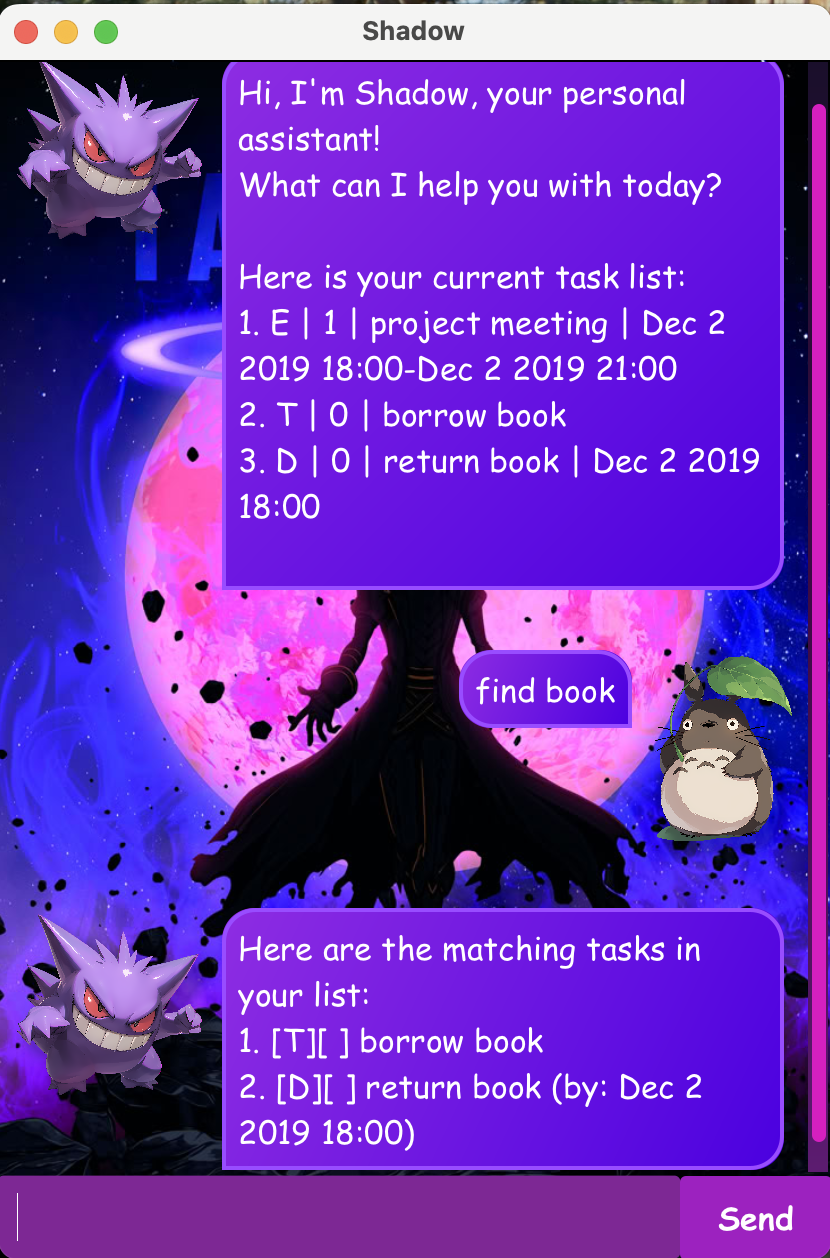
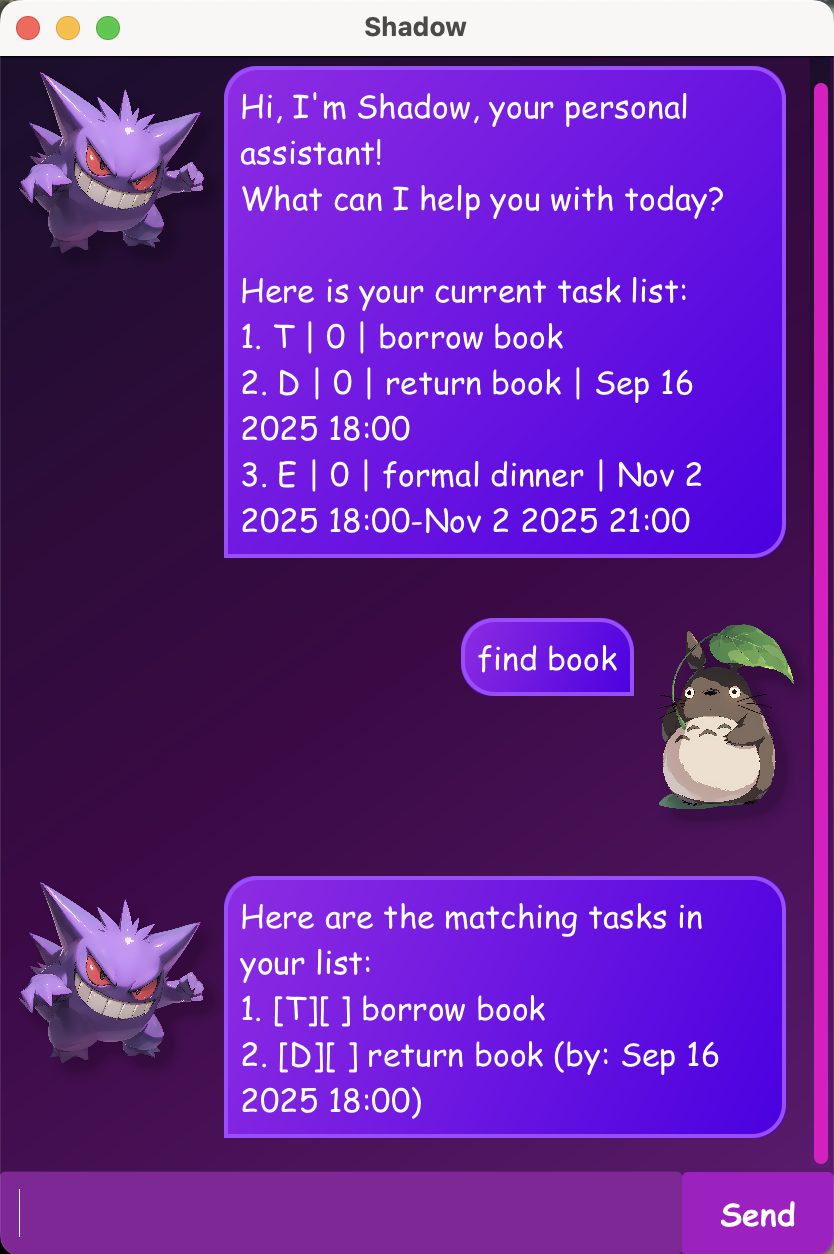
Remove background image for cross platform support

diff --git a/src/main/resources/css/main.css b/src/main/resources/css/main.css
@@ -1,7 +1,6 @@
 .root {
     main-color: linear-gradient(to bottom right, #1a0f2b, #3b0a45, #5c1c70);
     -fx-background-color: main-color;
-    -fx-background-image: url("../images/ChatbotBackground.jpg");
     -fx-background-size: 400px 600px;
     -fx-background-repeat: round;
 }

diff --git a/docs/README.md b/docs/README.md
@@ -116,4 +116,3 @@ Lists all matching tasks related to your keyword in the Shadow task list.
 
 ## Acknowledgements 📑
 - Shadow and user avatar images were sourced from this [website](https://www.cleanpng.com)
-- Chatbot background image was sourced from this [website](https://in.pinterest.com/thoungambalaishram67/emince-in-shadow/)
